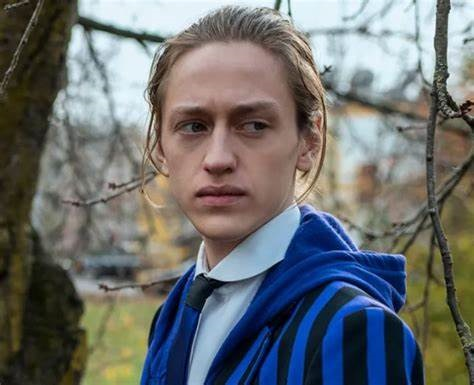
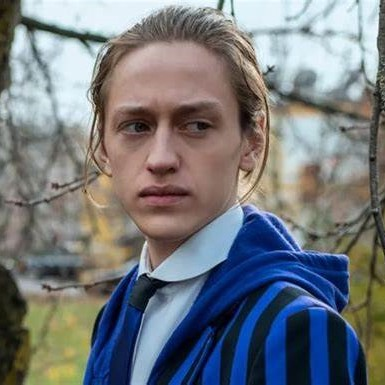
cropping images

diff --git a/src/Main.js b/src/Main.js
@@ -175,7 +175,7 @@ function Main() {
     <>
       <p className="navigateThroughImages">
         <PreviousButton onClick={goToPrevious} />
-        <ImageWrapped height="200" alt={person.name} person={person} imageName={person.imageSrc} />
+        <ImageWrapped height="200" width="200" alt={person.name} person={person} imageName={person.imageSrc} />
         <NextButton onClick={goToNext} />
       </p>
       <LargePersonListItem person={person} />
